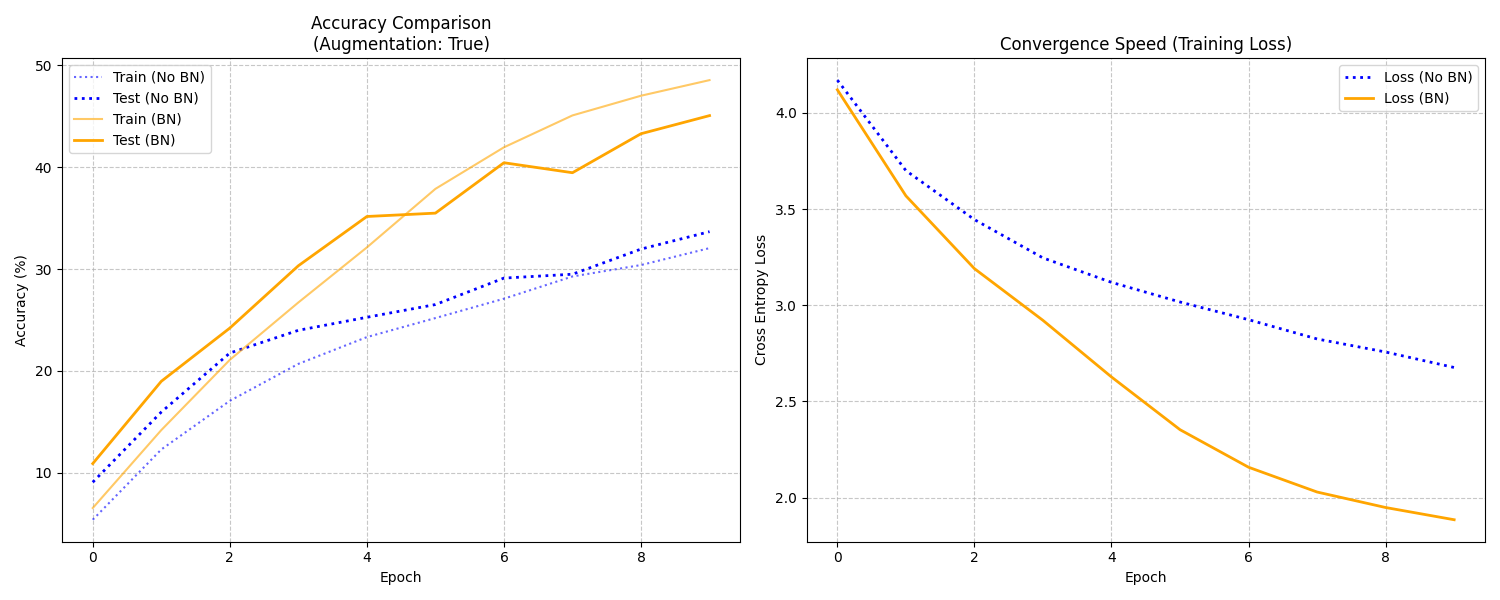
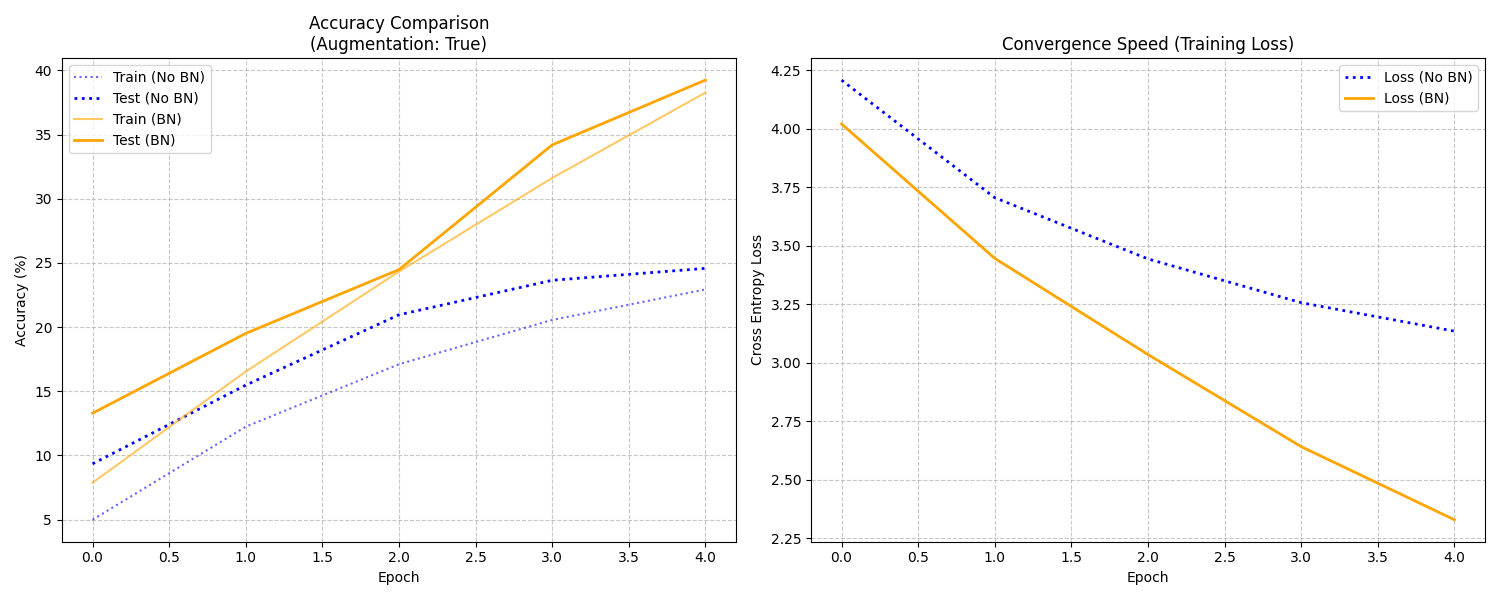
feat: add custom linear layer implementation and hyperparameter sensitivity study

diff --git a/hyperparameter_study.py b/hyperparameter_study.py
@@ -1,0 +1,131 @@
+import torch
+import torch.nn as nn
+import torch.optim as optim
+import torchvision
+import torchvision.transforms as transforms
+from model import ResNet18
+import json
+import matplotlib.pyplot as plt
+import os
+import time
+
+def train_and_evaluate(lr, batch_size, epochs=5):
+    """
+    Train ResNet18 with specific hyperparameters and return history.
+    """
+    device = 'cuda' if torch.cuda.is_available() else 'cpu'
+    
+    # Data preparation (Standard CIFAR-100 normalization)
+    transform_train = transforms.Compose([
+        transforms.RandomCrop(32, padding=4),
+        transforms.RandomHorizontalFlip(),
+        transforms.ToTensor(),
+        transforms.Normalize((0.5071, 0.4867, 0.4408), (0.2675, 0.2565, 0.2761)),
+    ])
+
+    transform_test = transforms.Compose([
+        transforms.ToTensor(),
+        transforms.Normalize((0.5071, 0.4867, 0.4408), (0.2675, 0.2565, 0.2761)),
+    ])
+
+    # root='./data' matches existing project structure
+    trainset = torchvision.datasets.CIFAR100(root='./data', train=True, download=False, transform=transform_train)
+    trainloader = torch.utils.data.DataLoader(trainset, batch_size=batch_size, shuffle=True, num_workers=2)
+
+    testset = torchvision.datasets.CIFAR100(root='./data', train=False, download=False, transform=transform_test)
+    testloader = torch.utils.data.DataLoader(testset, batch_size=100, shuffle=False, num_workers=2)
+
+    model = ResNet18().to(device)
+    criterion = nn.CrossEntropyLoss()
+    optimizer = optim.SGD(model.parameters(), lr=lr, momentum=0.9, weight_decay=5e-4)
+    
+    history = {'train_loss': [], 'test_acc': []}
+    
+    print(f"\n>>> Experiment: LR={lr}, BatchSize={batch_size}")
+    
+    for epoch in range(epochs):
+        model.train()
+        running_loss = 0.0
+        for inputs, targets in trainloader:
+            inputs, targets = inputs.to(device), targets.to(device)
+            optimizer.zero_grad()
+            outputs = model(inputs)
+            loss = criterion(outputs, targets)
+            loss.backward()
+            optimizer.step()
+            running_loss += loss.item()
+            
+        # Validation after each epoch
+        model.eval()
+        correct = 0
+        total = 0
+        with torch.no_grad():
+            for inputs, targets in testloader:
+                inputs, targets = inputs.to(device), targets.to(device)
+                outputs = model(inputs)
+                _, predicted = outputs.max(1)
+                total += targets.size(0)
+                correct += predicted.eq(targets).sum().item()
+        
+        acc = 100. * correct / total
+        avg_loss = running_loss / len(trainloader)
+        history['train_loss'].append(avg_loss)
+        history['test_acc'].append(acc)
+        print(f"    Epoch {epoch+1}/{epochs} | Train Loss: {avg_loss:.4f} | Test Acc: {acc:.2f}%")
+        
+    return history
+
+def main():
+    # 3 distinct experiments + 1 extra to show batch size sensitivity
+    experiments = [
+        {'lr': 0.1,   'batch_size': 128},
+        {'lr': 0.01,  'batch_size': 128},
+        {'lr': 0.001, 'batch_size': 128},
+        {'lr': 0.1,   'batch_size': 64}
+    ]
+    
+    all_results = {}
+    
+    for exp in experiments:
+        lr = exp['lr']
+        bs = exp['batch_size']
+        label = f"LR={lr}, BS={bs}"
+        history = train_and_evaluate(lr, bs, epochs=5) # 5 epochs is enough to see sensitivity trends
+        all_results[label] = history
+
+    # Save numerical results
+    os.makedirs('results', exist_ok=True)
+    with open('results/hyperparameter_sensitivity.json', 'w') as f:
+        json.dump(all_results, f, indent=4)
+    
+    # Generate Plots
+    plt.figure(figsize=(14, 6))
+    
+    # Plot 1: Accuracy
+    plt.subplot(1, 2, 1)
+    for label, history in all_results.items():
+        plt.plot(range(1, 6), history['test_acc'], marker='o', label=label)
+    plt.title('Sensitivity: Test Accuracy')
+    plt.xlabel('Epoch')
+    plt.ylabel('Accuracy (%)')
+    plt.legend()
+    plt.grid(True, linestyle='--', alpha=0.7)
+    
+    # Plot 2: Loss
+    plt.subplot(1, 2, 2)
+    for label, history in all_results.items():
+        plt.plot(range(1, 6), history['train_loss'], marker='x', label=label)
+    plt.title('Sensitivity: Training Loss')
+    plt.xlabel('Epoch')
+    plt.ylabel('Loss')
+    plt.legend()
+    plt.grid(True, linestyle='--', alpha=0.7)
+    
+    plt.tight_layout()
+    plt.savefig('hyperparameter_sensitivity.png')
+    print("\n[SUCCESS] Sensitivity study complete.")
+    print("Numerical results: results/hyperparameter_sensitivity.json")
+    print("Visual comparison: hyperparameter_sensitivity.png")
+
+if __name__ == "__main__":
+    main()

diff --git a/custom_layers.py b/custom_layers.py
@@ -1,0 +1,108 @@
+import torch
+import torch.nn as nn
+import math
+
+class CustomLinearFunction(torch.autograd.Function):
+    """
+    Hand-written forward and backward pass for a Linear layer.
+    Satisfies the 'AI Neutralization' requirement.
+    """
+    @staticmethod
+    def forward(ctx, input, weight, bias=None):
+        # Save input and weight for backward pass
+        ctx.save_for_backward(input, weight, bias)
+        
+        # Linear transformation: y = x * W^T + b
+        output = input.mm(weight.t())
+        if bias is not None:
+            # Add bias with broadcasting
+            output += bias.unsqueeze(0).expand_as(output)
+        return output
+
+    @staticmethod
+    def backward(ctx, grad_output):
+        # Retrieve saved tensors
+        input, weight, bias = ctx.saved_tensors
+        
+        grad_input = grad_weight = grad_bias = None
+
+        # Chain rule:
+        # 1. grad_input = grad_output * W
+        if ctx.needs_input_grad[0]:
+            grad_input = grad_output.mm(weight)
+        
+        # 2. grad_weight = grad_output^T * input
+        if ctx.needs_input_grad[1]:
+            grad_weight = grad_output.t().mm(input)
+        
+        # 3. grad_bias = sum(grad_output, dim=0)
+        if bias is not None and ctx.needs_input_grad[2]:
+            grad_bias = grad_output.sum(0)
+
+        return grad_input, grad_weight, grad_bias
+
+class CustomLinear(nn.Module):
+    def __init__(self, in_features, out_features, bias=True):
+        super(CustomLinear, self).__init__()
+        self.in_features = in_features
+        self.out_features = out_features
+        
+        # Initialize weight and bias as Parameters
+        self.weight = nn.Parameter(torch.Tensor(out_features, in_features))
+        if bias:
+            self.bias = nn.Parameter(torch.Tensor(out_features))
+        else:
+            self.register_parameter('bias', None)
+        
+        self.reset_parameters()
+
+    def reset_parameters(self):
+        # Standard Kaiming Uniform initialization
+        nn.init.kaiming_uniform_(self.weight, a=math.sqrt(5))
+        if self.bias is not None:
+            fan_in, _ = nn.init._calculate_fan_in_and_fan_out(self.weight)
+            bound = 1 / math.sqrt(fan_in) if fan_in > 0 else 0
+            nn.init.uniform_(self.bias, -bound, bound)
+
+    def forward(self, input):
+        return CustomLinearFunction.apply(input, self.weight, self.bias)
+
+if __name__ == "__main__":
+    # Verification script
+    print("Testing CustomLinear Layer...")
+    x = torch.randn(8, 16, requires_grad=True)
+    custom_layer = CustomLinear(16, 10)
+    
+    # Forward Pass
+    out_custom = custom_layer(x)
+    
+    # Backward Pass
+    loss = out_custom.pow(2).sum()
+    loss.backward()
+    
+    print(f"Forward pass output shape: {out_custom.shape}")
+    print(f"Weight gradient shape: {custom_layer.weight.grad.shape}")
+    
+    # Compare with standard PyTorch implementation
+    std_layer = nn.Linear(16, 10)
+    std_layer.weight.data = custom_layer.weight.data.clone()
+    std_layer.bias.data = custom_layer.bias.data.clone()
+    
+    x_std = x.detach().clone()
+    x_std.requires_grad = True
+    out_std = std_layer(x_std)
+    out_std.pow(2).sum().backward()
+    
+    # Validation
+    fwd_diff = (out_custom - out_std).abs().max().item()
+    grad_w_diff = (custom_layer.weight.grad - std_layer.weight.grad).abs().max().item()
+    grad_x_diff = (x.grad - x_std.grad).abs().max().item()
+    
+    print(f"Max Forward Diff: {fwd_diff:.2e}")
+    print(f"Max Weight Grad Diff: {grad_w_diff:.2e}")
+    print(f"Max Input Grad Diff: {grad_x_diff:.2e}")
+    
+    if fwd_diff < 1e-6 and grad_w_diff < 1e-6:
+        print("SUCCESS: Custom layer matches PyTorch implementation!")
+    else:
+        print("FAILURE: Differences too large.")
